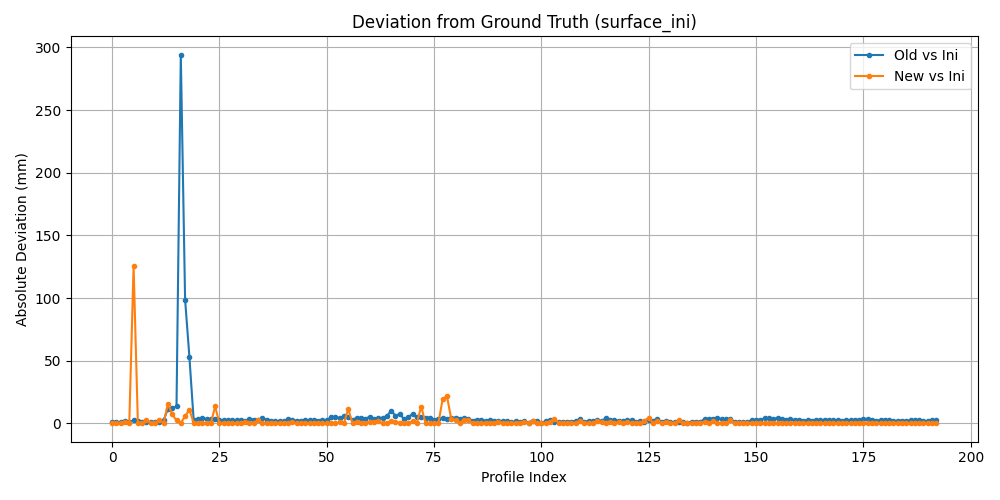
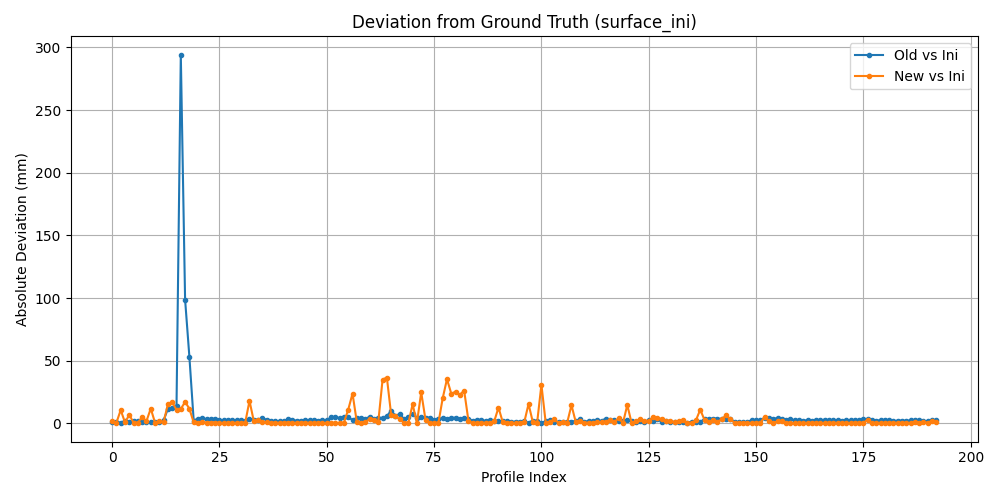
when removing smoothing grad afterwards worse results

Changed region(s): [[0.341, 0.75, 0.775, 0.87], [0.093, 0.57, 0.279, 0.87]]

diff --git a/additional_code/tryingsurfacedetection.py b/additional_code/tryingsurfacedetection.py
@@ -127,11 +127,11 @@ if surface_ini is not None:
         # Calculate mean 
         mae_new = mean_absolute_error(surface_ini_all, surface_new_all)
         mae_old = mean_absolute_error(surface_ini_all, surface_old_all)
-        rmse_new = mean_squared_error(surface_ini_all, surface_new_all, squared=False)
-        rmse_old = mean_squared_error(surface_ini_all, surface_old_all, squared=False)
+        rmse_new = mean_squared_error(surface_ini_all, surface_new_all)
+        rmse_old = mean_squared_error(surface_ini_all, surface_old_all)
 
         # Change here for different parameter runs
-        info_text = (f"Run with moving linear regression and threshold finding with\n air_std over rolling window 10mm\n threshold = 5 * early_std\n")
+        info_text = (f"Run with moving linear regression without smooting grad in 1mm window and threshold finding with\n air_std over rolling window 10mm\n threshold = 5 * early_std\n")
 
         # Input scores
         scores = (

diff --git a/code_SMP/detect_surface.py b/code_SMP/detect_surface.py
@@ -46,7 +46,7 @@ def detect_surface(df, name):
     grad = moving_linear_regression(distance, force, window_mm=1.0)
 
     #smoothing with hanning, same as smooth() of snowmicropyn
-    grad = smooth(grad, 242)
+    #grad = smooth(grad, 242)
     window_len = 242 # thats 1mm/resolution of SMP 
     #s = np.r_[grad[window_len - 1:0:-1], grad, grad[-1:-window_len:-1]]
     #w = eval('np.' + 'hanning' + '(window_len)')
